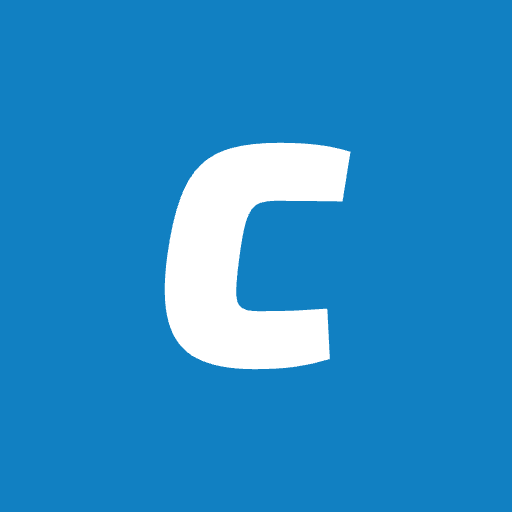
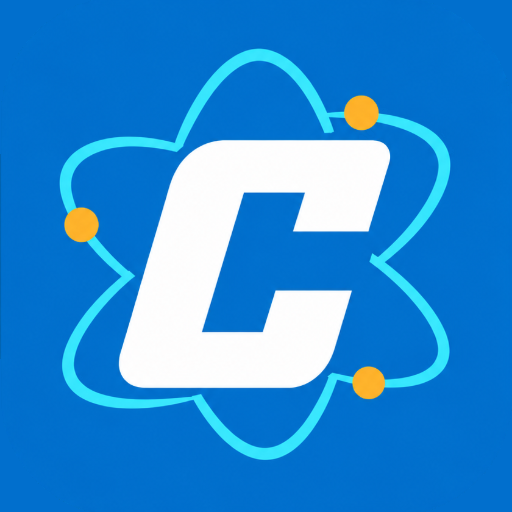
Add files via upload

Changed region(s): [[0.0938, 0.0938, 0.9062, 0.9062]]

diff --git a/webapp/webapp/index.html b/webapp/webapp/index.html
@@ -43,7 +43,7 @@ input::-webkit-outer-spin-button,input::-webkit-inner-spin-button{-webkit-appear
 <sc-if value="{{ showLogin }}" hint-placeholder-val="{{ false }}">
 <div style="position:fixed;inset:0;z-index:200;background:#f2f6fa;display:flex;align-items:center;justify-content:center;padding:20px">
   <div style="width:min(400px,100%);background:#fff;border-radius:24px;box-shadow:var(--shadow-md);padding:32px 28px;display:flex;flex-direction:column;gap:16px;align-items:stretch">
-    <div style="display:flex;flex-direction:column;align-items:center;gap:12px;text-align:center"><span style="width:72px;height:72px;border-radius:20px;background:#1180c2;color:#fff;display:flex;align-items:center;justify-content:center;font-family:'Exo 2',var(--font-heading);font-style:italic;font-weight:900;font-size:42px;line-height:1;flex:none">C</span><div style="display:flex;flex-direction:column;gap:6px;align-items:center"><span style="font-family:'Exo 2',var(--font-heading);font-style:italic;font-weight:900;font-size:30px;line-height:1;text-transform:uppercase;color:var(--color-text)">Cientia</span><span style="font-family:'Exo 2',var(--font-heading);font-style:italic;font-weight:800;font-size:13px;line-height:1;text-transform:uppercase;letter-spacing:.2em;color:#1180c2">Nutrition Manager</span></div><span style="font-size:11px;color:var(--color-neutral-600)">por <span style="font-family:'Exo 2',var(--font-heading);font-style:italic;font-weight:900;text-transform:uppercase;color:var(--color-text)">El Cienti<span style="color:#1180c2">fitness</span></span></span></div>
+    <div style="display:flex;flex-direction:column;align-items:center;gap:12px;text-align:center"><img src="assets/cientia-192.png" alt="Cientia" style="width:72px;height:72px;border-radius:20px;display:block;flex:none"><div style="display:flex;flex-direction:column;gap:6px;align-items:center"><span style="font-family:'Exo 2',var(--font-heading);font-style:italic;font-weight:900;font-size:30px;line-height:1;text-transform:uppercase;color:var(--color-text)">Cientia</span><span style="font-family:'Exo 2',var(--font-heading);font-style:italic;font-weight:800;font-size:13px;line-height:1;text-transform:uppercase;letter-spacing:.2em;color:#1180c2">Nutrition Manager</span></div><span style="font-size:11px;color:var(--color-neutral-600)">por <span style="font-family:'Exo 2',var(--font-heading);font-style:italic;font-weight:900;text-transform:uppercase;color:var(--color-text)">El Cienti<span style="color:#1180c2">fitness</span></span></span></div>
     <sc-if value="{{ loginReady }}" hint-placeholder-val="{{ true }}">
       <label style="display:flex;flex-direction:column;gap:5px;font-size:12px;color:var(--color-neutral-700)">Email<input class="input" type="email" value="{{ loginEmail }}" onChange="{{ onLoginEmail }}"></label>
       <label style="display:flex;flex-direction:column;gap:5px;font-size:12px;color:var(--color-neutral-700)">Contraseña<input class="input" type="password" value="{{ loginPass }}" onChange="{{ onLoginPass }}" onKeyDown="{{ onLoginKey }}"></label>
@@ -60,7 +60,7 @@ input::-webkit-outer-spin-button,input::-webkit-inner-spin-button{-webkit-appear
 
 <aside data-noprint="1" class="cf-side" data-mini="{{ sideMini }}">
   <sc-if value="{{ sbCF }}" hint-placeholder-val="{{ true }}"><div class="cf-brand">
-    <span style="width:40px;height:40px;border-radius:12px;background:#1180c2;color:#fff;display:flex;align-items:center;justify-content:center;font-family:'Exo 2',var(--font-heading);font-style:italic;font-weight:900;font-size:23px;line-height:1;flex:none">C</span><div style="display:flex;flex-direction:column;line-height:1.1">
+    <img src="assets/cientia-192.png" alt="Cientia" style="width:40px;height:40px;border-radius:12px;display:block;flex:none"><div style="display:flex;flex-direction:column;line-height:1.1">
       <span style="font-family:'Exo 2',var(--font-heading);font-style:italic;font-weight:900;font-size:21px;letter-spacing:0.01em;text-transform:uppercase;line-height:1">Cientia</span>
       <span style="font-size:10px;letter-spacing:.14em;text-transform:uppercase;color:var(--color-neutral-600);margin-top:3px">Nutrition Manager</span>
     </div>
@@ -870,7 +870,7 @@ input::-webkit-outer-spin-button,input::-webkit-inner-spin-button{-webkit-appear
       </sc-for>
       <div style="display:flex;align-items:center;gap:12px;padding:14px 18px;border-radius:16px;background:var(--color-accent-100);color:var(--color-accent-800);flex-wrap:wrap">
         <sc-if value="{{ pdfCoach }}" hint-placeholder-val="{{ false }}"><sc-if value="{{ pdfCoachHasLogo }}" hint-placeholder-val="{{ false }}"><img src="{{ pdfLogo }}" alt="Logo" style="height:30px;width:auto;max-width:90px;object-fit:contain;display:block"></sc-if><span style="font-family:var(--font-heading);font-weight:700;font-size:15px;color:var(--color-text)">{{ pdfCoachName }}</span><span style="font-size:11px;color:var(--color-neutral-700)">con <span style="font-family:'Exo 2',var(--font-heading);font-style:italic;font-weight:900;text-transform:uppercase;color:var(--color-text)">Cientia <span style="color:#1180c2">Nutrition</span></span></span></sc-if>
-        <sc-if value="{{ pdfCF }}" hint-placeholder-val="{{ true }}"><span style="width:28px;height:28px;border-radius:8px;background:#1180c2;color:#fff;display:flex;align-items:center;justify-content:center;font-family:'Exo 2',var(--font-heading);font-style:italic;font-weight:900;font-size:17px;line-height:1;flex:none">C</span><span style="font-family:'Exo 2',var(--font-heading);font-style:italic;font-weight:900;font-size:15px;line-height:1;text-transform:uppercase;color:var(--color-text)">Cientia <span style="color:#1180c2">Nutrition</span></span><span style="font-size:11px;color:var(--color-neutral-600)">por <span style="font-family:'Exo 2',var(--font-heading);font-style:italic;font-weight:900;text-transform:uppercase;color:var(--color-text)">El Cienti<span style="color:#1180c2">fitness</span></span></span></sc-if>
+        <sc-if value="{{ pdfCF }}" hint-placeholder-val="{{ true }}"><img src="assets/cientia-192.png" alt="Cientia" style="width:28px;height:28px;border-radius:8px;display:block;flex:none"><span style="font-family:'Exo 2',var(--font-heading);font-style:italic;font-weight:900;font-size:15px;line-height:1;text-transform:uppercase;color:var(--color-text)">Cientia <span style="color:#1180c2">Nutrition</span></span><span style="font-size:11px;color:var(--color-neutral-600)">por <span style="font-family:'Exo 2',var(--font-heading);font-style:italic;font-weight:900;text-transform:uppercase;color:var(--color-text)">El Cienti<span style="color:#1180c2">fitness</span></span></span></sc-if>
         <sc-if value="{{ pdfHasPhone }}" hint-placeholder-val="{{ true }}"><span style="font-size:13px;margin-left:auto">Dudas por WhatsApp: {{ pdfPhone }}</span></sc-if>
       </div>
       <div style="display:flex;flex-direction:column;gap:12px;break-before:page;border-top:1px solid var(--color-divider);padding-top:16px">
@@ -1086,7 +1086,7 @@ input::-webkit-outer-spin-button,input::-webkit-inner-spin-button{-webkit-appear
       <div class="cf-rep-scroll" style="flex:1;min-height:0;overflow-y:auto;padding:24px 12px 40px;background:#e9eef3">
         <div class="cf-rep-sheet" style="width:min(820px,100%);margin:0 auto;background:#fff;border-radius:6px;box-shadow:var(--shadow-md);padding:clamp(20px,5vw,44px);box-sizing:border-box;display:flex;flex-direction:column;gap:26px">
           <div style="display:flex;flex-wrap:wrap;align-items:center;gap:12px 18px;padding-bottom:18px;border-bottom:2px solid var(--color-accent)">
-            <span style="width:54px;height:54px;border-radius:15px;background:#1180c2;color:#fff;display:flex;align-items:center;justify-content:center;font-family:'Exo 2',var(--font-heading);font-style:italic;font-weight:900;font-size:32px;line-height:1;flex:none">C</span>
+            <img src="assets/cientia-192.png" alt="Cientia" style="width:54px;height:54px;border-radius:15px;display:block;flex:none">
             <div style="display:flex;flex-direction:column;gap:2px;margin-right:auto;min-width:0"><span style="font-size:11px;letter-spacing:.12em;text-transform:uppercase;font-weight:800;color:var(--color-accent-700)">Informe de progreso</span><span style="font-family:var(--font-heading);font-weight:700;font-size:26px;line-height:1.15">{{ repName }}</span><span style="font-size:13px;color:var(--color-neutral-700)">{{ repPeriod }}</span></div>
             <span style="font-size:12px;color:var(--color-neutral-600)">{{ repIssued }}</span>
           </div>
@@ -3471,9 +3471,9 @@ class Component extends DCLogic {
   myName(){const m=this.state.me;return (m&&m.name)||'';}
   brandPub(){const B=this.state.brand||{};if(!this.isPrem())return null;const th=window.CFBrand&&CFBrand.valid(B.p);if(!B.logo&&!(B.name||'').trim()&&!th)return null;
     const o={name:(B.name||'').trim(),logo:B.logo||'',icon:B.icon||''};if(th)Object.assign(o,{p:B.p,a:B.a||'',bg:B.bg||'tint',font:B.font||'sora',mac:B.mac||'cf',mc:B.mc||null});return o;}
-  applyBrand(){if(!window.CFBrand)return;const b=this.isPrem()?this.state.brand:null,k=b?JSON.stringify([b.p,b.a,b.bg,b.font,b.mac,b.mc]):'';if(k===this._brK)return;this._brK=k;CFBrand.apply(b);}
-  pushBrand(){if(!this._cloud||!this.sb){this.toast('Inicia sesión en la nube para aplicarlo a tus asesorados',true);return;}const bp=this.brandPub();this.setState({brPushing:true});
-    this.sb.from('cf_links').select('client_key,plan').eq('coach_id',this.uid).then(({data,error})=>{if(error){this.setState({brPushing:false});this.toast('No se pudo aplicar: '+error.message,true);return;}const R=(data||[]).filter(r=>r.plan);
+  applyBrand(){if(this.myPlan()==='standard'&&!this._brClr&&this._cloud&&this.sb&&this.uid){this._brClr=true;this.pushBrand(true);}if(!window.CFBrand)return;const b=this.isPrem()?this.state.brand:null,k=b?JSON.stringify([b.p,b.a,b.bg,b.font,b.mac,b.mc]):'';if(k===this._brK)return;this._brK=k;CFBrand.apply(b);}
+  pushBrand(quiet){if(!this._cloud||!this.sb){if(!quiet)this.toast('Inicia sesión en la nube para aplicarlo a tus asesorados',true);return;}const bp=this.brandPub();if(!quiet)this.setState({brPushing:true});
+    this.sb.from('cf_links').select('client_key,plan').eq('coach_id',this.uid).then(({data,error})=>{if(error){if(!quiet){this.setState({brPushing:false});this.toast('No se pudo aplicar: '+error.message,true);}return;}const R=(data||[]).filter(r=>r.plan&&(!quiet||r.plan.brand));if(quiet){R.forEach(r=>this.sb.from('cf_links').update({plan:{...r.plan,brand:null}}).eq('coach_id',this.uid).eq('client_key',r.client_key).then(()=>{}));return;}
       Promise.all(R.map(r=>this.sb.from('cf_links').update({plan:{...r.plan,brand:bp}}).eq('coach_id',this.uid).eq('client_key',r.client_key))).then(()=>{this.setState({brPushing:false});this.toast(R.length?'Tema aplicado en tu panel y en la app de '+R.length+(R.length===1?' asesorado':' asesorados'):'Tema guardado. Tus asesorados lo verán al publicarles un plan');});});}
   myPhone(){const m=this.state.me;return (m&&m.phone)||(!m||m.role==='owner'?TRAINER_PHONE:'');}
   seedCoach(){this._skip=true;this.setState({clients:[],events:[],foods:[],tpls:[],eqGroups:[],presets:[],activeId:null,view:'clients',recSeed:null,recRev:null,forms:null,lists:null,fibOv:null,unitOv:null,eqFree:null,mnotes:null,notif:null,nlist:null,fauto:null,brand:null,cutTpls:null},()=>{this.pushCloud(true);this.loadBase();});}

diff --git a/webapp/webapp/asesorado.html b/webapp/webapp/asesorado.html
@@ -39,7 +39,7 @@ button{-webkit-user-select:none;user-select:none}
 <sc-if value="{{ showAuth }}" hint-placeholder-val="{{ true }}">
 <div style="min-height:100vh;display:flex;align-items:center;justify-content:center;padding:24px 18px;box-sizing:border-box;font-family:var(--font-body);color:var(--color-text)">
   <div style="width:min(400px,100%);background:#fff;border-radius:24px;box-shadow:var(--shadow-md);padding:30px 24px;display:flex;flex-direction:column;gap:14px;box-sizing:border-box">
-    <div style="display:flex;flex-direction:column;align-items:center;gap:12px;text-align:center"><span style="width:72px;height:72px;border-radius:20px;background:#1180c2;color:#fff;display:flex;align-items:center;justify-content:center;font-family:'Exo 2',var(--font-heading);font-style:italic;font-weight:900;font-size:42px;line-height:1;flex:none">C</span><div style="display:flex;flex-direction:column;gap:6px;align-items:center"><span style="font-family:'Exo 2',var(--font-heading);font-style:italic;font-weight:900;font-size:30px;line-height:1;text-transform:uppercase;color:var(--color-text)">Cientia</span><span style="font-family:'Exo 2',var(--font-heading);font-style:italic;font-weight:800;font-size:13px;line-height:1;text-transform:uppercase;letter-spacing:.2em;color:#1180c2">Nutrition</span></div><span style="font-size:13px;color:var(--color-neutral-700);text-wrap:pretty">{{ authSub }}</span><span style="font-size:11px;color:var(--color-neutral-600)">por <span style="font-family:'Exo 2',var(--font-heading);font-style:italic;font-weight:900;text-transform:uppercase;color:var(--color-text)">El Cienti<span style="color:#1180c2">fitness</span></span></span></div>
+    <div style="display:flex;flex-direction:column;align-items:center;gap:12px;text-align:center"><img src="assets/cientia-192.png" alt="Cientia" style="width:72px;height:72px;border-radius:20px;display:block;flex:none"><div style="display:flex;flex-direction:column;gap:6px;align-items:center"><span style="font-family:'Exo 2',var(--font-heading);font-style:italic;font-weight:900;font-size:30px;line-height:1;text-transform:uppercase;color:var(--color-text)">Cientia</span><span style="font-family:'Exo 2',var(--font-heading);font-style:italic;font-weight:800;font-size:13px;line-height:1;text-transform:uppercase;letter-spacing:.2em;color:#1180c2">Nutrition</span></div><span style="font-size:13px;color:var(--color-neutral-700);text-wrap:pretty">{{ authSub }}</span><span style="font-size:11px;color:var(--color-neutral-600)">por <span style="font-family:'Exo 2',var(--font-heading);font-style:italic;font-weight:900;text-transform:uppercase;color:var(--color-text)">El Cienti<span style="color:#1180c2">fitness</span></span></span></div>
     <sc-if value="{{ isLoginForm }}" hint-placeholder-val="{{ true }}">
       <label style="display:flex;flex-direction:column;gap:5px;font-size:12px;color:var(--color-neutral-700)">Email<input class="input" type="email" autocomplete="email" value="{{ loginEmail }}" onChange="{{ onLoginEmail }}" style="font-size:16px"></label>
       <label style="display:flex;flex-direction:column;gap:5px;font-size:12px;color:var(--color-neutral-700)">Contraseña<input class="input" type="password" autocomplete="current-password" value="{{ loginPass }}" onChange="{{ onLoginPass }}" onKeyDown="{{ onLoginKey }}" style="font-size:16px"></label>

diff --git a/webapp/webapp/Cuestionario.dc.html b/webapp/webapp/Cuestionario.dc.html
@@ -15,7 +15,7 @@
 </helmet>
 <div id="cf-form-top" style="max-width:600px;margin:0 auto;padding:18px 16px 40px;box-sizing:border-box;display:flex;flex-direction:column;gap:16px;font-family:var(--font-body);color:var(--color-text)">
   <div style="display:flex;align-items:center;gap:10px">
-    <span style="width:36px;height:36px;border-radius:10px;background:#1180c2;color:#fff;display:flex;align-items:center;justify-content:center;font-family:'Exo 2',var(--font-heading);font-style:italic;font-weight:900;font-size:21px;line-height:1;flex:none">C</span><span style="font-family:'Exo 2',var(--font-heading);font-style:italic;font-weight:900;font-size:18px;text-transform:uppercase;margin-right:auto">Cientia <span style="color:#1180c2">Nutrition</span></span>
+    <img src="assets/cientia-192.png" alt="Cientia" style="width:36px;height:36px;border-radius:10px;display:block;flex:none"><span style="font-family:'Exo 2',var(--font-heading);font-style:italic;font-weight:900;font-size:18px;text-transform:uppercase;margin-right:auto">Cientia <span style="color:#1180c2">Nutrition</span></span>
     <sc-if value="{{ hasClose }}" hint-placeholder-val="{{ false }}"><button onClick="{{ close }}" style="font:inherit;font-size:14px;font-weight:700;border:0;background:#fff;color:var(--color-text);border-radius:999px;padding:10px 16px;min-height:44px;box-shadow:var(--shadow-sm);cursor:pointer">Cerrar</button></sc-if>
   </div>
 

diff --git a/webapp/webapp/sw.js b/webapp/webapp/sw.js
@@ -1,5 +1,5 @@
 // Siempre intenta la red primero (datos al día); si no hay conexión, usa la última copia.
-const C='cf-v9';
+const C='cf-v10';
 self.addEventListener('install',e=>self.skipWaiting());
 self.addEventListener('activate',e=>e.waitUntil(self.clients.claim()));
 self.addEventListener('fetch',e=>{
